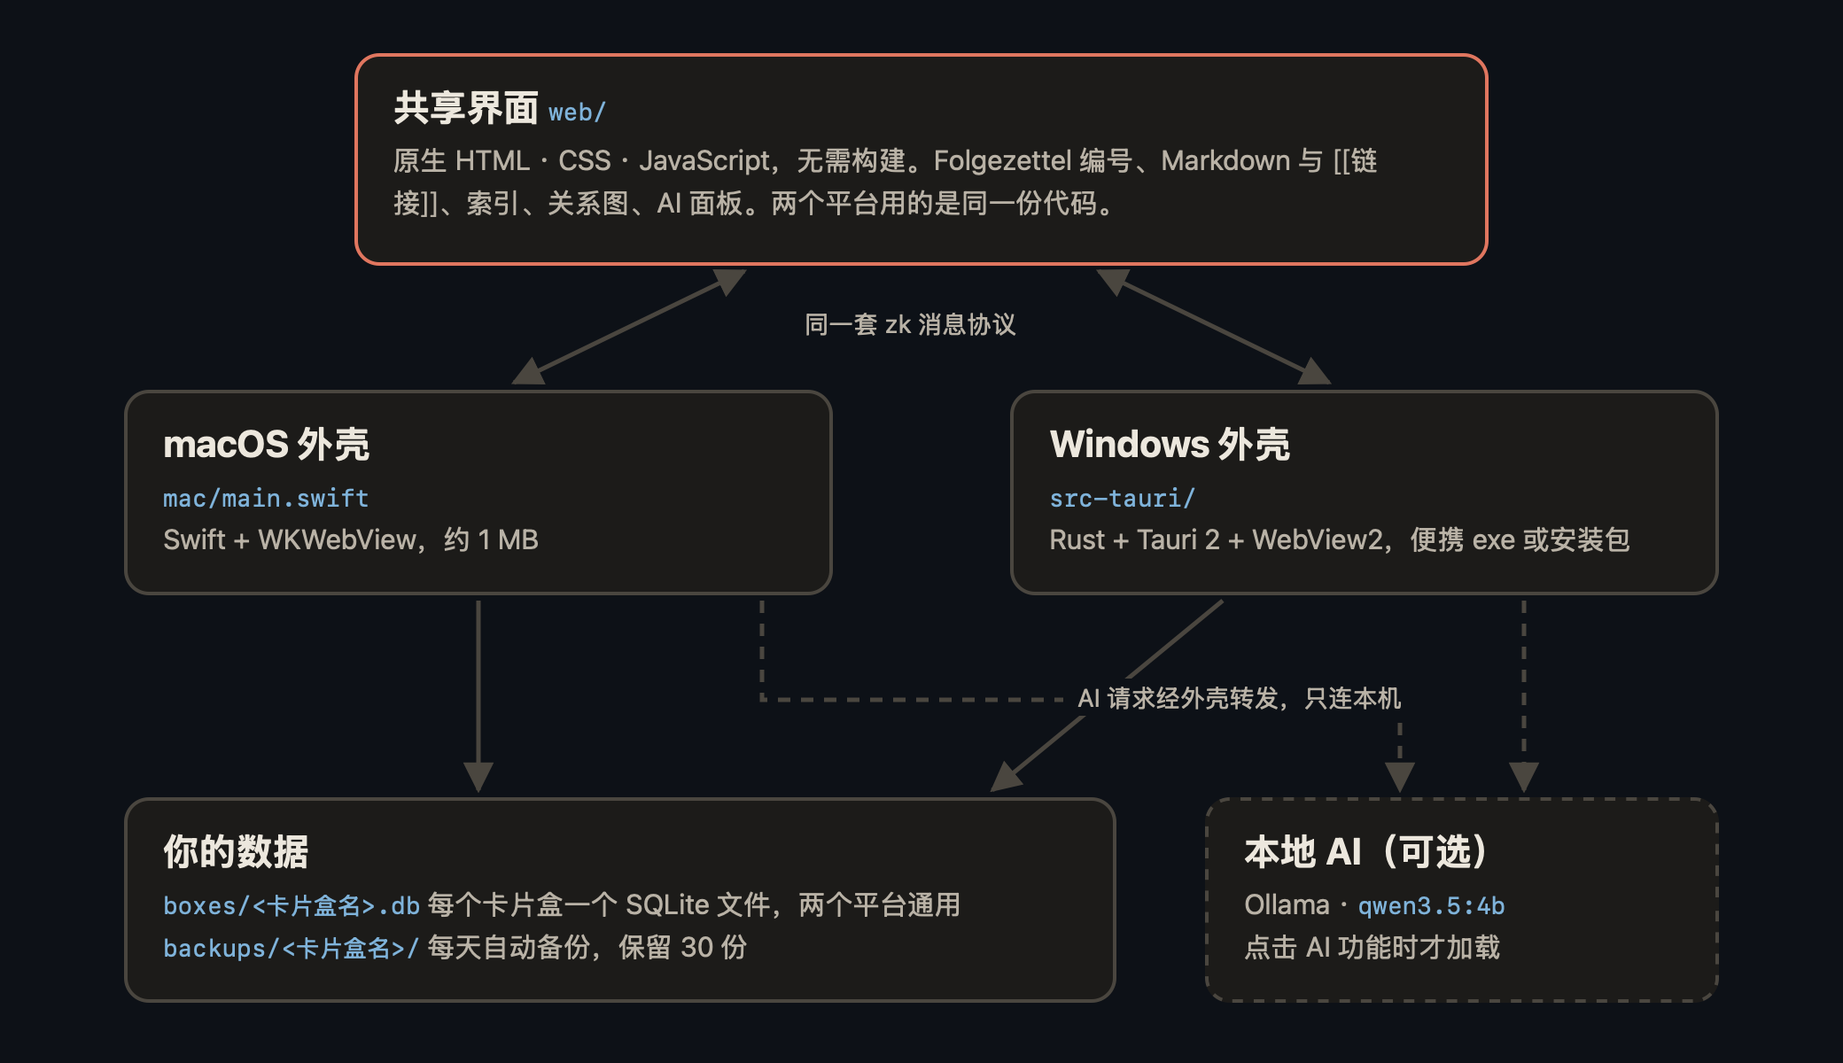
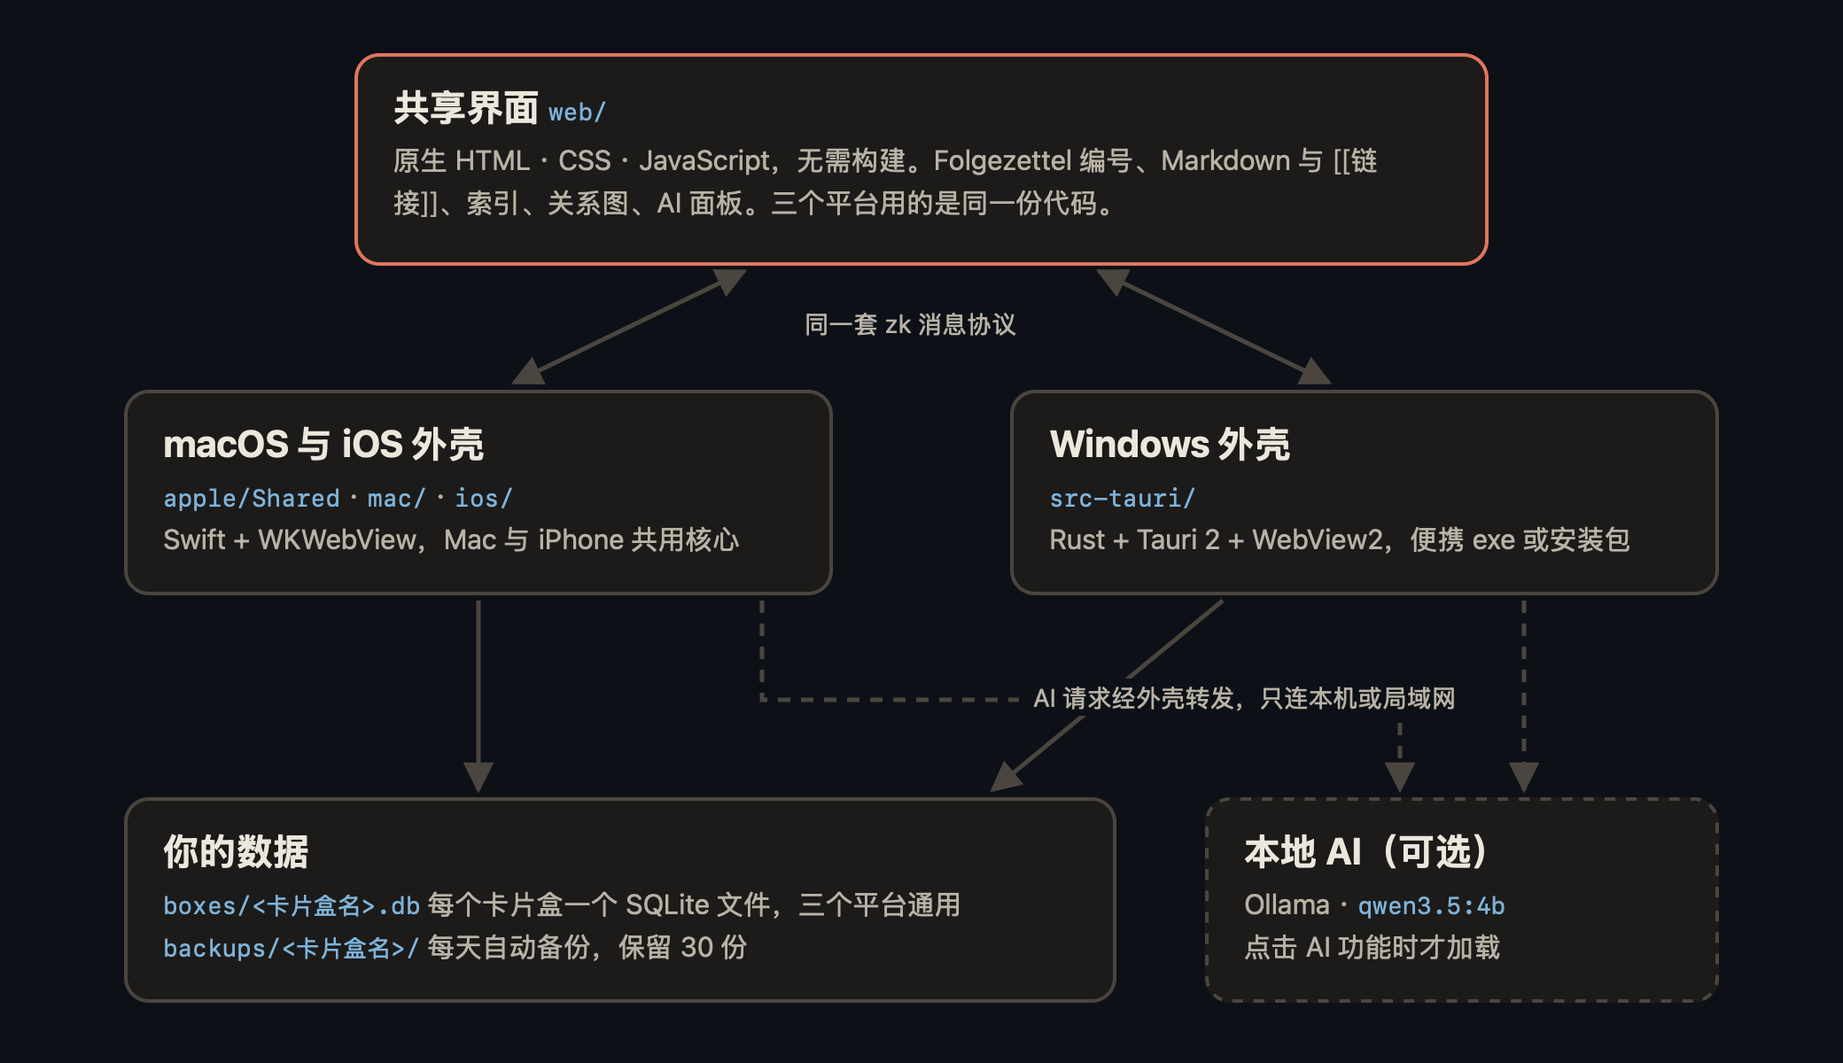
iOS self-test via result file; docs for iOS and the LAN sync plan; 1.1.0
- ZK_SELFTEST_OUT for the Swift apps (the simulator has no usable stdout).
- docs/IOS.md (Sideloadly / AltStore / Xcode, Files app, LAN Ollama),
  docs/SYNC.md (LAN sync plan), README, roadmap, changelog, diagram.
- Version 1.1.0.

diff --git a/scripts/art/architecture.html b/scripts/art/architecture.html
@@ -25,11 +25,11 @@
       <path d="M 860 339 L 860 446" marker-end="url(#a)" stroke-dasharray="7 6"/>
       <path d="M 430 339 L 430 395 L 790 395 L 790 446" marker-end="url(#a)" stroke-dasharray="7 6"/>
     </g></svg>
-  <div class="b ui"><h3>共享界面 <code>web/</code></h3><p>原生 HTML · CSS · JavaScript，无需构建。Folgezettel 编号、Markdown 与 [[链接]]、索引、关系图、AI 面板。两个平台用的是同一份代码。</p></div>
+  <div class="b ui"><h3>共享界面 <code>web/</code></h3><p>原生 HTML · CSS · JavaScript，无需构建。Folgezettel 编号、Markdown 与 [[链接]]、索引、关系图、AI 面板。三个平台用的是同一份代码。</p></div>
   <div class="lbl" style="left:446px;top:172px">同一套 zk 消息协议</div>
-  <div class="lbl" style="left:600px;top:383px">AI 请求经外壳转发，只连本机</div>
-  <div class="b mac"><h3>macOS 外壳</h3><p><code>mac/main.swift</code><br>Swift + WKWebView，约 1 MB</p></div>
+  <div class="lbl" style="left:575px;top:383px">AI 请求经外壳转发，只连本机或局域网</div>
+  <div class="b mac"><h3>macOS 与 iOS 外壳</h3><p><code>apple/Shared</code> · <code>mac/</code> · <code>ios/</code><br>Swift + WKWebView，Mac 与 iPhone 共用核心</p></div>
   <div class="b win"><h3>Windows 外壳</h3><p><code>src-tauri/</code><br>Rust + Tauri 2 + WebView2，便携 exe 或安装包</p></div>
-  <div class="b db"><h3>你的数据</h3><p><code>boxes/&lt;卡片盒名&gt;.db</code> 每个卡片盒一个 SQLite 文件，两个平台通用<br><code>backups/&lt;卡片盒名&gt;/</code> 每天自动备份，保留 30 份</p></div>
+  <div class="b db"><h3>你的数据</h3><p><code>boxes/&lt;卡片盒名&gt;.db</code> 每个卡片盒一个 SQLite 文件，三个平台通用<br><code>backups/&lt;卡片盒名&gt;/</code> 每天自动备份，保留 30 份</p></div>
   <div class="b ai"><h3>本地 AI（可选）</h3><p>Ollama · <code>qwen3.5:4b</code><br>点击 AI 功能时才加载</p></div>
 </body></html>

diff --git a/apple/Shared/Bridge.swift b/apple/Shared/Bridge.swift
@@ -217,7 +217,7 @@ final class Bridge: NSObject, WKScriptMessageHandlerWithReply {
 ///
 /// Development: ZK_DATA_DIR=<folder> uses another data folder and leaves the remembered box alone;
 /// ZK_BOX=<name> opens that box; ZK_SELFTEST=<script.js> runs the script in the page (body of an
-/// async function), prints the result and quits.
+/// async function), prints the result (and writes it to ZK_SELFTEST_OUT if set) and quits.
 enum ZKApp {
     static let env = ProcessInfo.processInfo.environment
     static let startURL = URL(string: "zk://app/index.html")!
@@ -255,14 +255,15 @@ enum ZKApp {
             exit(2)
         }
         webView.callAsyncJavaScript(js, arguments: [:], in: nil, in: .page) { result in
+            let (text, code): (String, Int32)
             switch result {
-            case .success(let value):
-                print(value)
-                exit(0)
-            case .failure(let error):
-                print("SELFTEST ERROR: \(error)")
-                exit(1)
+            case .success(let value): (text, code) = ("\(value)", 0)
+            case .failure(let error): (text, code) = ("SELFTEST ERROR: \(error)", 1)
             }
+            // ZK_SELFTEST_OUT: also write the result to a file (the iOS simulator has no usable stdout)
+            if let out = env["ZK_SELFTEST_OUT"] { try? text.write(toFile: out, atomically: true, encoding: .utf8) }
+            print(text)
+            exit(code)
         }
     }
 }

diff --git a/docs/SYNC.md b/docs/SYNC.md
@@ -1,0 +1,104 @@
+# 多端互联：局域网同步方案（计划，v1.2）
+
+> 状态：方案设计中，还没有实现。欢迎在 [Discussions](https://github.com/CamLUzy/slipbox/discussions) 里提意见。
+
+## 一句话
+
+两台设备都打开卡片盒，在同一个 Wi-Fi 下，**在其中一台点“同步”，另一台就作为主机**。两台之间直接加密传输，几秒钟后两边的卡片盒完全一致。不经过任何服务器，也不需要账号。
+
+## 原则
+
+- **没有服务器**：设备之间在局域网里直连，卡片不经过第三方。
+- **加密且认人**：只和配对过的设备同步，传输全程加密，别人在同一个 Wi-Fi 里也看不到内容。
+- **不丢内容**：两边都改过同一张卡片时，较旧的那份变成“冲突副本”放进收件箱，而不是被覆盖。
+- **一套合并逻辑**：合并规则写在共享的 `web/js/ops.js` 里（纯函数、有单元测试），Mac、Windows、iPhone 用的是同一份代码；原生外壳只负责发现设备和加密传输。
+- **同步前先备份**：每次合并前自动备份当前卡片盒，出了问题可以退回。
+
+## 用户流程
+
+### 第一次：配对（每对设备只做一次）
+
+1. 两台设备都打开卡片盒，进入 **设置与数据 → 设备与同步**，“在局域网中可被发现”默认在这个页面打开时开启。
+2. 列表里会出现同一个 Wi-Fi 下的其他卡片盒设备（显示设备名，比如“lu 的 MacBook Air”“Windows 台式机”“iPhone”）。
+3. 点其中一台 → 两台设备屏幕上同时出现一个 **6 位校验码**。两边的数字一样，就点“确认配对”。
+4. 配对完成后双方记住对方，以后同步不需要再确认。
+
+校验码由加密握手的结果算出：如果有人在中间冒充，两边看到的数字就会不同。这和蓝牙配对时比对数字是同一个原理。
+
+### 日常：点一下就同步
+
+1. 两台设备都打开卡片盒（iPhone 需要在前台）。
+2. 在任意一台点 **同步**（侧栏底部或“设备与同步”页面）。
+3. **点的这台是发起方，另一台是主机**：发起方把自己改过的卡片发给主机，主机合并后把结果发回来，两边写入同样的内容。
+4. 结束后显示一份摘要：新增 N 张、更新 N 张、冲突副本 N 张、编号顺延 N 张，点开可以看到具体是哪些卡片。
+
+### 同步哪些卡片盒
+
+- 卡片盒按内部 ID 对应（重命名不影响）；两边同名但从未同步过的卡片盒会询问“合并为一个”还是“分开保留”。
+- 主机上有、本机没有的卡片盒会列出来，勾选后一起拉过来。
+
+## 合并规则
+
+每张卡片已经有 `uid`（全局唯一）、`updatedAt`、`deleted`。新增三样东西：
+
+| 新增 | 作用 |
+|---|---|
+| 卡片盒 `boxId` | 存在数据库的 `meta` 表里，用来对应两台设备上的同一个卡片盒 |
+| 墓碑表 `purged(uid, at)` | 永久删除的卡片也要告诉对方，否则下次同步会被“复活” |
+| 同步记录 `peers(deviceId, boxId, lastSync)` | 每个对端上次同步到哪个时间点，下次只交换之后的变更 |
+
+合并按卡片进行：
+
+| 情况 | 结果 |
+|---|---|
+| 只有一边改过 | 用改过的那份 |
+| 两边都改过 | 保留 `updatedAt` 较新的；较旧的那份内容作为“【冲突副本】”闪念放进收件箱 |
+| 一边改、一边删（进回收站） | 保留修改，卡片回到正常状态，并在摘要里提示 |
+| 一边永久删除 | 两边都删除（墓碑生效） |
+| 两边离线时各自新建了同一个编号 | 较晚创建的那张自动顺延到下一个空位（同“续写”规则），摘要里列出新旧编号 |
+| 一边改号（整串分支移动） | 每张卡片按上面的规则合并；合并后做一次全盒检查：编号唯一、`[[链接]]` 都能找到 |
+
+## 技术方案
+
+```
+发起方 App ──(Bonjour 发现)──▶ 主机 App
+   │  加密连接：Noise_XX_25519_ChaChaPoly_SHA256
+   │  1. 发起方：我的变更（自上次同步）+ 墓碑 + 全部 (uid, updatedAt) 清单
+   │  2. 主机：在自己的页面里调用 ops.mergeBoxes() 合并，写入数据库
+   │  3. 主机 → 发起方：对方缺的或较旧的卡片、新的墓碑、摘要
+   ▼
+发起方写入同样的结果，两边一致
+```
+
+| 部分 | macOS / iOS（Swift） | Windows（Rust） |
+|---|---|---|
+| 发现 | Network.framework `NWListener` / `NWBrowser`，服务类型 `_slipbox._tcp` | `mdns-sd` crate |
+| 加密握手 | 用 CryptoKit（Curve25519、ChaChaPoly、SHA256、HKDF）实现 Noise XX | `snow` crate（同一个 Noise 协议，互相兼容） |
+| 传输 | 握手后在同一条 TCP 连接上发长度前缀的 JSON 消息 | 同左 |
+| 合并 | 页面里的 `ops.mergeBoxes()`（共享 JavaScript） | 同左 |
+
+- 只有“设备与同步”页面打开，或者打开了“保持可被发现”时才监听端口；平时不开任何端口。
+- 第一次监听时，Windows 会弹防火墙提示（选“专用网络”），iPhone 会请求“本地网络”权限。
+- 浏览器版（`npm run dev`）不能监听端口，不参与同步。
+- 卡片盒不大（几千张卡片也只有几 MB），首次同步直接交换全量，之后只交换变更。
+
+## 实现步骤
+
+1. **数据层**：`boxId`、`purged`、`peers`；`ops.mergeBoxes(local, remote, lastSync)` 纯函数，配一组单元测试（每一种冲突都有测试用例）。
+2. **Mac 与 iOS 传输**：Bonjour 发现、Noise 握手、消息收发、配对与校验码。
+3. **Windows 传输**：同样的协议用 Rust 实现，和 Mac 互相测试。
+4. **界面**：“设备与同步”页面、侧栏的同步按钮、同步摘要、配对确认。
+5. **CI**：在同一台机器上启动两个实例（不同的数据目录），跑一次完整的“配对 → 各自修改 → 同步 → 比较两边数据”的自测；Mac ↔ Windows 互通在两台真机上手动验证。
+6. 发布 **v1.2.0**。
+
+## 暂时不做
+
+- 不在同一个 Wi-Fi 时的远程同步（以后可以通过你自己的网盘文件夹交换加密的变更包）。
+- 三台以上设备同时自动同步（两两同步已经能覆盖：手机 ↔ 电脑、电脑 ↔ 另一台电脑）。
+- 多人实时协同编辑。
+
+## 待确认
+
+1. **谁当主机**：默认“被点的那一台”当主机。另一种做法是固定一台“主设备”（比如台式机），只要它在线就总是由它合并。
+2. **冲突策略**：保留较新的一份 + 冲突副本（推荐），还是每次都让你手动选。
+3. **可被发现**：只在“设备与同步”页面打开时可被发现（推荐，更安全），还是常开以便在对方设备上直接点同步。

diff --git a/docs/IOS.md b/docs/IOS.md
@@ -1,0 +1,60 @@
+# iPhone / iPad
+
+支持 iOS / iPadOS 16 及以上。界面和桌面版是同一份代码，手机上是底部标签栏的单栏布局，iPad 横屏时是双栏布局。
+
+## 安装
+
+卡片盒没有上架 App Store（需要付费开发者账号），所以 iPhone 版需要自己装。下面两种方式任选一种，都只需要一个免费的 Apple ID。
+
+### 方式一：用 Sideloadly 或 AltStore 安装 `.ipa`（不需要 Xcode）
+
+1. 在 [Releases](https://github.com/CamLUzy/slipbox/releases/latest) 下载 `Slipbox-<版本>-ios-unsigned.ipa`。
+2. 在电脑上安装 [Sideloadly](https://sideloadly.io)（Windows / macOS）或 [AltStore](https://altstore.io)。
+3. 用数据线连接 iPhone，把 `.ipa` 拖进 Sideloadly，填入你的 Apple ID，点 Start。工具会用你的 Apple ID 给应用签名并装到手机上。
+4. 第一次打开前，到 iPhone 的 **设置 → 通用 → VPN 与设备管理**，信任你的 Apple ID。
+
+免费 Apple ID 签名的应用 **7 天后需要重新签名**（AltStore 可以在同一个 Wi-Fi 下自动续签）。重新签名不会影响卡片数据。
+
+### 方式二：用 Xcode 从源码安装
+
+需要一台装了完整 Xcode 的 Mac：
+
+```bash
+brew install xcodegen
+git clone https://github.com/CamLUzy/slipbox && cd slipbox/ios
+xcodegen            # 生成 Slipbox.xcodeproj
+open Slipbox.xcodeproj
+```
+
+在 Xcode 里选择 Slipbox target → Signing & Capabilities → Team 选你的 Apple ID，连接 iPhone 后点 Run。
+
+## 数据在哪
+
+卡片保存在应用自己的“文稿”文件夹里，打开 **“文件”App → 我的 iPhone → 卡片盒** 就能看到：
+
+```
+卡片盒/
+├─ boxes/<卡片盒名>.db        和 Mac、Windows 完全相同的 SQLite 文件
+├─ backups/<卡片盒名>/        每天自动备份
+└─ 已删除的卡片盒/            删除的卡片盒先放这里，可以拖回 boxes/ 恢复
+```
+
+所以可以直接用“文件”App、AirDrop 或网盘把 `.db` 文件在 iPhone 和电脑之间拷来拷去。设备之间一键同步的计划见 [多端互联](SYNC.md)。
+
+导入导出：**设置与数据 → 导出 JSON** 会打开分享面板（可以存到“文件”或 AirDrop 给电脑）；**从 JSON 导入** 会打开文件选择器。
+
+## 本地 AI
+
+iPhone 上跑不了 Ollama，但可以用同一个 Wi-Fi 下电脑上的：
+
+1. 在电脑上让 Ollama 接受局域网连接：macOS 运行 `launchctl setenv OLLAMA_HOST 0.0.0.0` 后重启 Ollama；Windows 在“系统 → 高级系统设置 → 环境变量”里添加 `OLLAMA_HOST=0.0.0.0`，再重启 Ollama。
+2. 查出电脑的局域网地址（比如 `192.168.1.20`）。
+3. 在 iPhone 的卡片盒里打开 **设置与数据 → AI**，把 Ollama 地址改成 `http://192.168.1.20:11434`，保存。
+4. 第一次连接时 iPhone 会请求“本地网络”权限，选允许。
+
+应用只允许连接本机或局域网地址（`10.*`、`172.16–31.*`、`192.168.*`、`*.local`），卡片不会被发到互联网上的服务器。
+
+## 已知限制
+
+- 没有菜单栏和键盘快捷键（外接键盘时 `N`、`/`、`J` / `K` 等单键快捷键仍然可用）。
+- 免费签名每 7 天要续一次。

diff --git a/README.en.md b/README.en.md
@@ -5,7 +5,7 @@
 **A Luhmann-style slip box that you actually own.**
 
 Permanent card IDs, links and backlinks, a keyword register, relation graphs and a local AI,<br>
-on macOS and Windows, with every card kept on your own computer.
+on Windows, macOS and iPhone / iPad, with every card kept on your own devices.
 
 [Download](https://github.com/CamLUzy/slipbox/releases/latest) · [中文说明](README.md) · [Changelog](CHANGELOG.md) · [Roadmap](ROADMAP.md)
 
@@ -39,17 +39,21 @@ From the [latest release](https://github.com/CamLUzy/slipbox/releases/latest):
   ships with). The files are not code-signed: choose *More info → Run anyway* in SmartScreen.
 - **macOS 12+:** `Slipbox-<version>-macos.zip`, a universal app. If macOS refuses to open it, use
   *System Settings → Privacy & Security → Open Anyway*.
+- **iPhone / iPad (iOS 16+):** `Slipbox-<version>-ios-unsigned.ipa`, installed with Sideloadly or
+  AltStore and a free Apple ID (re-sign every 7 days), or built from source with Xcode. See
+  [docs/IOS.md](docs/IOS.md).
 
 To try it with sample cards, use *设置与数据 → 从 JSON 导入* and pick
 [`docs/demo/demo-box.json`](docs/demo/demo-box.json).
 
 ## How it is built
 
-`web/` is the whole UI in plain HTML, CSS and JavaScript (no build step). `mac/main.swift` wraps it
-in a WKWebView window (about 1 MB); `src-tauri/` wraps it in Tauri 2 with WebView2 on Windows. Both
+`web/` is the whole UI in plain HTML, CSS and JavaScript (no build step). `apple/Shared` holds the
+Swift store and bridge used by `mac/` (a WKWebView window, about 1 MB) and `ios/` (UIKit);
+`src-tauri/` wraps the UI in Tauri 2 with WebView2 on Windows. All three
 shells answer the same `zk` messages (cards, slip boxes, backups, export, the Ollama proxy), and
-both have a headless self-test mode that CI runs against the packaged app on real Windows and
-macOS machines. See [docs/DEVELOPMENT.md](docs/DEVELOPMENT.md).
+each has a headless self-test mode that CI runs against the packaged app on Windows, macOS and the
+iOS simulator. LAN sync between devices is planned next ([docs/SYNC.md](docs/SYNC.md)). See [docs/DEVELOPMENT.md](docs/DEVELOPMENT.md).
 
 ## License
 

diff --git a/ROADMAP.md b/ROADMAP.md
@@ -5,20 +5,19 @@
 | 版本 | 时间 | 主题 | 状态 |
 |---|---|---|---|
 | v1.0.0 | 2026 年 10 月 | macOS 与 Windows 应用、多个卡片盒、本地 AI、关系图 | ✅ 已发布 |
-| v1.1 | 下一个 | iPhone / iPad 应用 | 计划中 |
-| v1.2 | 之后 | 设备之间同步 | 计划中 |
+| v1.1.0 | 2026 年 10 月 | iPhone / iPad 应用 | ✅ 已发布 |
+| v1.2 | 下一个 | 局域网同步 | 方案设计中 |
 | v1.3 | 之后 | 附件与卡片历史 | 想法 |
 
-## v1.1 · iPhone / iPad
+## v1.1.0 · iPhone / iPad ✅
 
-- 用 Tauri 2 的 iOS 支持复用 `src-tauri/` 和 `web/`，手机布局已经在界面里做好。
-- 先做“随手记闪念 + 翻阅卡片盒”，编辑体验针对触屏调整。
-- 由于没有付费开发者账号，第一版需要用 Xcode 自己装到手机上（或侧载），文档会写清楚步骤。
+- Mac 和 iPhone 共用一份 Swift 核心（`apple/Shared`），界面还是同一份网页代码。
+- 数据在“文件”App 里能直接看到；导入导出用分享面板和文件选择器；AI 可以用局域网里电脑上的 Ollama。
+- 没有付费开发者账号，所以用 Sideloadly / AltStore 安装未签名的 `.ipa`，或用 Xcode 从源码安装。
 
-## v1.2 · 设备之间同步
+## v1.2 · 局域网同步
 
-- 不建服务器：把卡片盒放进你自己的网盘文件夹（iCloud Drive、OneDrive、坚果云等）。
-- 每台设备写自己的变更日志，按卡片和字段合并，删除保持删除，冲突保留副本。
+两台设备都打开卡片盒，在一台上点“同步”，另一台当主机，直接加密传输、合并后两边一致。详细方案见 [docs/SYNC.md](docs/SYNC.md)。
 
 ## v1.3 · 附件与历史
 
@@ -27,6 +26,7 @@
 
 ## 以后
 
+- 通过你自己的网盘文件夹做远程同步（不在同一个 Wi-Fi 时）。
 - 向量检索的“可能相关的卡片”（本地嵌入模型，比如 bge-m3）。
 - 英文界面。
 - Linux 打包（Tauri 已经支持，主要是测试）。

diff --git a/CHANGELOG.md b/CHANGELOG.md
@@ -2,6 +2,16 @@
 
 格式参考 [Keep a Changelog](https://keepachangelog.com/zh-CN/1.1.0/)，版本号遵循 [语义化版本](https://semver.org/lang/zh-CN/)。
 
+## [1.1.0] - 2026-10-16
+
+### 新增
+
+- **iPhone / iPad 应用**（iOS 16+）：UIKit + WKWebView 外壳，和 Mac 版共用 `apple/Shared` 里的 Swift 核心（SQLite、卡片盒、备份、`zk` 消息桥）。数据放在“文件”App 里看得到的位置；导出用分享面板，导入用文件选择器；删除的卡片盒先放进“已删除的卡片盒”文件夹。
+- iPhone 上的 AI 可以连接同一个 Wi-Fi 下电脑上的 Ollama（只允许局域网地址）。
+- Release 里提供未签名的 `.ipa`，可用 Sideloadly / AltStore 安装；`docs/IOS.md` 写了安装步骤。
+- CI 在 iOS 模拟器里运行应用自测，并自动截取 iPhone 截图。
+- 多端互联（局域网同步）的方案：`docs/SYNC.md`。
+
 ## [1.0.0] - 2026-10-16
 
 第一个公开版本：macOS 与 Windows 两个桌面应用，共用同一份界面。

diff --git a/docs/FAQ.md b/docs/FAQ.md
@@ -9,8 +9,11 @@
 **删除的卡片去哪了？**
 先进回收站，可以恢复；在回收站里“永久删除”才会真正删掉。删除整个卡片盒时，文件会移到系统的废纸篓 / 回收站。
 
-**能在两台电脑之间同步吗？**
-目前还没有自动同步，可以拷贝 `boxes/<名字>.db` 或导出导入 JSON。基于网盘文件夹的同步在 [路线图](../ROADMAP.md) 里。
+**能在两台设备之间同步吗？**
+目前还没有自动同步，可以拷贝 `boxes/<名字>.db`（三个平台格式相同）或导出导入 JSON。局域网一键同步的方案见 [多端互联](SYNC.md)，计划在 v1.2 实现。
+
+**iPhone 版怎么装？**
+没有上架 App Store，用 Sideloadly / AltStore 安装 Release 里的 `.ipa`，或用 Xcode 从源码装，见 [iPhone / iPad](IOS.md)。
 
 **Windows 上提示“Windows 已保护你的电脑”？**
 安装包没有代码签名证书，点“更多信息 → 仍要运行”。见 [Windows](WINDOWS.md)。

diff --git a/docs/README.md b/docs/README.md
@@ -4,6 +4,8 @@
 |---|---|
 | [Windows](WINDOWS.md) | 安装、升级、卸载、SmartScreen 与 WebView2 |
 | [macOS](MAC.md) | 安装、自己编译 |
+| [iPhone / iPad](IOS.md) | 用 Sideloadly / AltStore 或 Xcode 安装、数据在“文件”App、局域网 AI |
+| [多端互联](SYNC.md) | 局域网同步的方案（计划中） |
 | [本地 AI](AI.md) | 安装 Ollama、四个 AI 功能、模型与内存 |
 | [数据](DATA.md) | 文件在哪、备份与恢复、导入导出、换电脑 |
 | [FAQ](FAQ.md) | 常见问题 |
